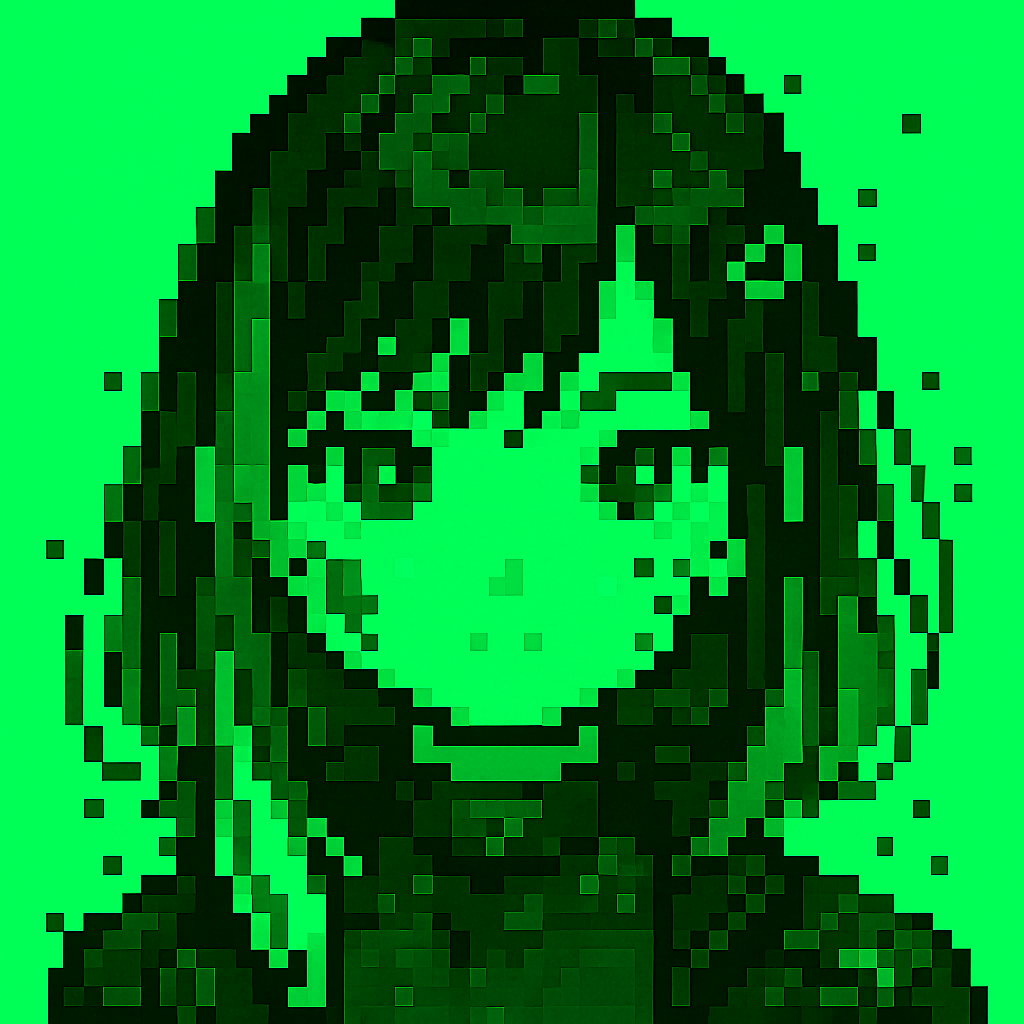
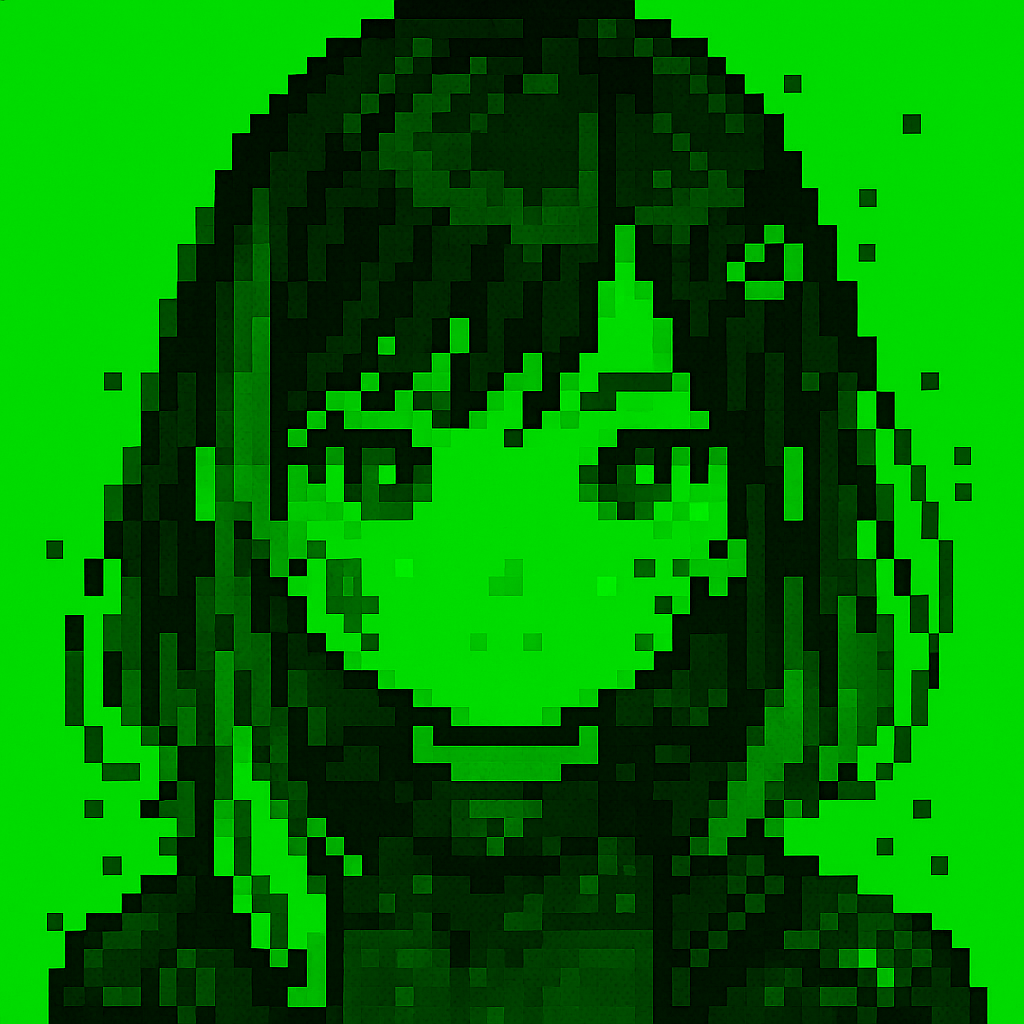
refactor(ui): unify color management with CSS variables and settings.json, fix opacity logic

diff --git a/app/src/renderer/style.css b/app/src/renderer/style.css
@@ -3,17 +3,74 @@
   /* OS Standard Terminal Fonts */
   font-family: Consolas, Menlo, monospace;
   font-size: 14px;
-  /* Revert to 14px as standard fonts are more readable */
+
+  /* ----------------------------------------------------------------
+     Theme Variables (Injected via main.ts from settings.json)
+     Default fallbacks are provided here.
+     ---------------------------------------------------------------- */
   
-  /* MGS Codec Theme Colors */
-  --term-green: #33ff99; /* SpringGreen/MediumAquamarine inspired, slightly greener */
+  /* Theme Base (SpringGreen: #33ff99 -> 51, 255, 153) */
+  --theme-color-r: 51;
+  --theme-color-g: 255;
+  --theme-color-b: 153;
+
+  /* User Base (Cyan: #64ffff -> 100, 255, 255) */
+  --user-color-r: 100;
+  --user-color-g: 255;
+  --user-color-b: 255;
+
+  /* Tool Base (Orange: #ffaa00 -> 255, 170, 0) */
+  --tool-color-r: 255;
+  --tool-color-g: 170;
+  --tool-color-b: 0;
+
+  /* Error Base (Red: #ff6666 -> 255, 102, 102) - Fixed */
+  --error-color-r: 255;
+  --error-color-g: 102;
+  --error-color-b: 102;
+
+  /* ----------------------------------------------------------------
+     Derived Colors (Computed from base variables)
+     ---------------------------------------------------------------- */
+
+  /* Theme Colors */
+  --col-theme-main: rgba(var(--theme-color-r), var(--theme-color-g), var(--theme-color-b), 1);
+  --col-theme-text: rgba(var(--theme-color-r), var(--theme-color-g), var(--theme-color-b), 0.95);
+  --col-theme-dim:  rgba(var(--theme-color-r), var(--theme-color-g), var(--theme-color-b), 0.7);
+  --col-theme-bg:   rgba(var(--theme-color-r), var(--theme-color-g), var(--theme-color-b), 0.1);
   
-  /* Stronger, multi-layer glow for CRT effect */
-  --term-glow-text: 0 0 3px rgba(51, 255, 153, 0.6), 0 0 12px rgba(51, 255, 153, 0.4);
-  --term-glow-box: 0 0 3px rgba(51, 255, 153, 0.4), 0 0 8px rgba(51, 255, 153, 0.2);
+  /* User Colors */
+  --col-user-text: rgba(var(--user-color-r), var(--user-color-g), var(--user-color-b), 0.95);
+
+  /* Tool Colors */
+  --col-tool-text: rgba(var(--tool-color-r), var(--tool-color-g), var(--tool-color-b), 0.9);
+
+  /* Borders */
+  --col-border-main: rgba(var(--theme-color-r), var(--theme-color-g), var(--theme-color-b), 0.5);
+  --col-border-high: rgba(var(--theme-color-r), var(--theme-color-g), var(--theme-color-b), 0.8);
+  
+  /* Backgrounds (Panels) */
+  /* Note: Panel BG is kept as dark tint of theme color or fixed dark depending on preference. */
+  /* MGS Style: Very dark tint of theme color */
+  --col-panel-bg: rgba(0, 20, 10, 0.3); /* Still hardcoded for aesthetic balance, or can be derived */
+  
+  /* Image Background (Derived from theme) */
+  --col-img-bg: rgba(var(--theme-color-r), var(--theme-color-g), var(--theme-color-b), 0.1);
+
+  /* Glow Effects */
+  --glow-text: 
+    0 0 3px rgba(var(--theme-color-r), var(--theme-color-g), var(--theme-color-b), 0.6), 
+    0 0 12px rgba(var(--theme-color-r), var(--theme-color-g), var(--theme-color-b), 0.4);
+  
+  --glow-box: 
+    0 0 3px rgba(var(--theme-color-r), var(--theme-color-g), var(--theme-color-b), 0.4), 
+    0 0 8px rgba(var(--theme-color-r), var(--theme-color-g), var(--theme-color-b), 0.2);
+
+  /* Opacity Variable (Injected via main.ts, default 0.7) */
+  --ui-opacity: 0.7;
 }
 
-/* --- Metal Gear Solid inspired Scanlines --- */
+/* --- Scanlines --- */
 .app::after {
   content: "";
   position: absolute;
@@ -35,79 +92,58 @@ body {
   height: 100%;
   margin: 0;
   padding: 0;
-  background: rgba(0, 0, 0, 0.0); /* 完全透過：デスクトップが見えるはず */
-  color: var(--term-green);
-  text-shadow: var(--term-glow-text);
+  background: rgba(0, 0, 0, 0.0); /* Transparent for desktop see-through */
+  color: var(--col-theme-main);
+  text-shadow: var(--glow-text);
 }
 
 .app {
   display: grid;
-  background: rgba(0, 0, 0, 0.7); /* アプリ背景：半透明の黒 */
+  background: rgba(0, 0, 0, var(--ui-opacity)); /* App Background via CSS Variable */
   grid-template-columns: 1fr 170px;
-  /* アバター枠をスリム化 (220px -> 170px) */
   grid-template-rows: 1fr auto auto;
-  /* Output(flex), Input(auto), Meta(auto) */
-  column-gap: 10px; /* アバターとの横ギャップを入力行と揃える */
-  row-gap: 10px; /* 出力と入力の間に余白を確保 */
+  column-gap: 10px;
+  row-gap: 10px;
   height: 100vh;
   min-width: 600px;
-  min-height: 360px; /* 縦方向をややコンパクトに許容 */
+  min-height: 360px;
   padding: 20px;
-  padding-top: 32px; /* 上部の余白を減らし、罫線との距離を詰める */
+  padding-top: 32px;
   box-sizing: border-box;
   position: relative;
-  /* 線の配置基準 */
 }
 
-/* デザイン罫線（疑似要素で表現） */
+/* Top Border Line */
 .app::before {
   content: "";
   position: absolute;
-  top: 16px; /* 罫線をやや上に寄せる */
+  top: 16px;
   left: 20px;
   right: 20px;
   height: 3px;
-  background: rgba(51, 255, 153, 0.8);
-  box-shadow: 0 0 6px rgba(51, 255, 153, 0.6); /* 罫線も強く発光 */
+  background: var(--col-border-high);
+  box-shadow: var(--glow-text); /* Reuse text glow for strong line glow */
 }
 
-/* フレームレス時にドラッグできる領域を広く確保 */
-.app {
-  -webkit-app-region: drag;
-}
-#pane-output,
-#pane-input,
-#pane-avatar,
-.meta-bar,
-input,
-.text-scroll {
-  -webkit-app-region: no-drag;
-}
+/* Frameless Drag Region */
+.app { -webkit-app-region: drag; }
+#pane-output, #pane-input, #pane-avatar, .meta-bar, input, .text-scroll { -webkit-app-region: no-drag; }
 
-.app:not(.split) #pane-avatar {
-  display: none;
-}
+.app:not(.split) #pane-avatar { display: none; }
 
 /* Left Column: Output Area */
 #pane-output {
   grid-column: 1 / 2;
   grid-row: 1 / 2;
-  border: 1px solid rgba(51, 255, 153, 0.5);
-  box-shadow: var(--term-glow-box);
-  background: rgba(0, 20, 10, 0.2); /* 少し青みを混ぜる */
+  border: 1px solid var(--col-border-main);
+  box-shadow: var(--glow-box);
+  background: var(--col-panel-bg);
   display: flex;
   flex-direction: column;
   overflow: hidden;
 }
 
-.surface-host {
-  flex: 1;
-  display: flex;
-  flex-direction: column;
-  min-height: 0;
-}
-
-.surface {
+.surface-host, .surface {
   flex: 1;
   display: flex;
   flex-direction: column;
@@ -122,59 +158,46 @@ input,
   overflow-y: auto;
   overflow-x: hidden;
   white-space: pre-wrap;
-  line-height: 1.4; /* 少しタイトにして情報量を増やす */
-  color: rgba(51, 255, 153, 0.9);
+  line-height: 1.4;
+  color: var(--col-theme-text);
   min-height: 0;
 }
 
-.text-line {
-  margin: 0 0 8px; /* 段落間も少し詰める */
-}
+.text-line { margin: 0 0 8px; }
+.text-line strong { color: var(--col-theme-main); }
 
-.text-line strong {
-  color: var(--term-green);
-}
-
-.text-line--system {
-  color: rgba(51, 255, 153, 0.7);
-}
+.text-line--system { color: var(--col-theme-dim); }
 
 .text-line--error {
-  color: #ff6666;
+  color: rgba(var(--error-color-r), var(--error-color-g), var(--error-color-b), 1);
 }
 
 .text-line--proposed {
-  color: rgba(51, 255, 153, 0.85);
+  color: var(--col-theme-text);
   font-family: Consolas, Menlo, monospace;
   background: rgba(0, 20, 10, 0.4);
   padding: 8px;
-  border: 1px solid rgba(51, 255, 153, 0.3);
+  border: 1px solid rgba(var(--theme-color-r), var(--theme-color-g), var(--theme-color-b), 0.3);
 }
 
-.text-line--user {
-  color: rgba(100, 255, 255, 0.95); /* ユーザーはより青く */
-}
-
-.text-line--assistant {
-  color: rgba(51, 255, 153, 0.95);
-}
-
-.text-line--tool {
-  color: rgba(0, 180, 255, 0.9);
+.text-line--user { color: var(--col-user-text); }
+.text-line--assistant { color: var(--col-theme-text); }
+.text-line--tool { 
+  color: var(--col-tool-text);
   font-style: italic;
 }
 
 /* Left Column: Input Area */
 #pane-input {
-  grid-column: 1 / 3; /* 入力を全幅に拡張（アバターまで貫通） */
+  grid-column: 1 / 3;
   grid-row: 2 / 3;
   display: flex;
   align-items: center;
   gap: 8px;
   padding: 10px 12px;
-  border: 1px solid rgba(51, 255, 153, 0.5);
-  box-shadow: var(--term-glow-box);
-  background: rgba(0, 20, 10, 0.3);
+  border: 1px solid var(--col-border-main);
+  box-shadow: var(--glow-box);
+  background: var(--col-panel-bg);
 }
 
 #input {
@@ -189,10 +212,10 @@ input,
 /* Right Column: Avatar Area */
 #pane-avatar {
   grid-column: 2 / 3;
-  grid-row: 1 / 2; /* 出力エリアと同じ高さに揃える */
-  border: 1px solid rgba(51, 255, 153, 0.5);
-  box-shadow: var(--term-glow-box);
-  background: rgba(0, 40, 20, 0.25);
+  grid-row: 1 / 2;
+  border: 1px solid var(--col-border-main);
+  box-shadow: var(--glow-box);
+  background: rgba(0, 40, 20, 0.25); /* Slightly different BG for avatar */
   display: flex;
   flex-direction: column;
   align-items: center;
@@ -205,10 +228,12 @@ input,
 #avatar-img {
   width: 140px;
   height: 140px;
-  border: 1px solid rgba(51, 255, 153, 0.6);
-  box-shadow: var(--term-glow-box);
-  background: rgba(51, 255, 153, 0.1);
+  border: 1px solid var(--col-border-main);
+  box-shadow: var(--glow-box);
+  background: var(--col-img-bg);
   object-fit: cover;
+  opacity: var(--ui-opacity); /* Sync with app opacity */
+  mix-blend-mode: screen; /* Blend with the background for hologram look */
 }
 
 .avatar-label {
@@ -223,6 +248,6 @@ input,
   display: flex;
   justify-content: flex-end;
   font-size: 12px;
-  color: rgba(51, 255, 153, 0.7);
-  margin-top: -6px; /* メタバーをアバターの下線に寄せる微調整 */
+  color: var(--col-theme-dim);
+  margin-top: -6px;
 }

diff --git a/app/src/renderer/main.ts b/app/src/renderer/main.ts
@@ -44,14 +44,57 @@ async function initApp() {
   // アバター枠内のラベルはエージェント名 (設定連動)
   avatarLabel.textContent = config.ui.nameTags.avatar;
 
+  // ---------------------------------------------------------
+  // カラーテーマ適用ロジック (CSS変数へ注入)
+  // ---------------------------------------------------------
+  const root = document.documentElement;
+
+  // HEX -> RGB 変換ヘルパー
+  const hexToRgb = (hex: string) => {
+    const result = /^#?([a-f\d]{2})([a-f\d]{2})([a-f\d]{2})$/i.exec(hex);
+    return result
+      ? {
+          r: parseInt(result[1], 16),
+          g: parseInt(result[2], 16),
+          b: parseInt(result[3], 16),
+        }
+      : null;
+  };
+
+  // テーマカラー適用
+  if (config.ui.themeColor) {
+    const rgb = hexToRgb(config.ui.themeColor);
+    if (rgb) {
+      root.style.setProperty("--theme-color-r", String(rgb.r));
+      root.style.setProperty("--theme-color-g", String(rgb.g));
+      root.style.setProperty("--theme-color-b", String(rgb.b));
+    }
+  }
+
+  // ユーザーカラー適用
+  if (config.ui.userColor) {
+    const rgb = hexToRgb(config.ui.userColor);
+    if (rgb) {
+      root.style.setProperty("--user-color-r", String(rgb.r));
+      root.style.setProperty("--user-color-g", String(rgb.g));
+      root.style.setProperty("--user-color-b", String(rgb.b));
+    }
+  }
+
+  // ツールカラー適用
+  if (config.ui.toolColor) {
+    const rgb = hexToRgb(config.ui.toolColor);
+    if (rgb) {
+      root.style.setProperty("--tool-color-r", String(rgb.r));
+      root.style.setProperty("--tool-color-g", String(rgb.g));
+      root.style.setProperty("--tool-color-b", String(rgb.b));
+    }
+  }
+
   // 透過設定を適用
   if (config.ui.opacity !== undefined) {
     document.body.style.backgroundColor = `rgba(0, 0, 0, 0.0)`; // bodyは完全透過
-    const appEl = document.querySelector('.app') as HTMLElement;
-    if (appEl) {
-      // 設定値が 0.7 なら、rgba(0,0,0,0.7) を適用
-      appEl.style.backgroundColor = `rgba(0, 0, 0, ${config.ui.opacity})`;
-    }
+    root.style.setProperty("--ui-opacity", String(config.ui.opacity));
   }
 
   // 3. UIエンジン (Game Loop) の初期化
@@ -101,7 +144,6 @@ async function initApp() {
       await agent.runAgent(
         {
           runId: crypto.randomUUID(),
-          threadId: agentConfig.threadId,
         },
         createUiSubscriber({
           outputEl,

diff --git a/app/src/renderer/config.ts b/app/src/renderer/config.ts
@@ -1,6 +1,9 @@
 // app/src/renderer/config.ts
 
 export interface UiConfig {
+  themeColor: string;
+  userColor: string;
+  toolColor: string;
   typeSpeed: number;
   opacity: number;
   soundVolume: number;
@@ -32,6 +35,9 @@ const defaults: AppConfig = {
     url: "", // プロキシ使用 (/agui/config)
   },
   ui: {
+    themeColor: "#33ff99",
+    userColor: "#64ffff",
+    toolColor: "#ffaa00",
     typeSpeed: 0,
     opacity: 0.7,
     soundVolume: 0,
